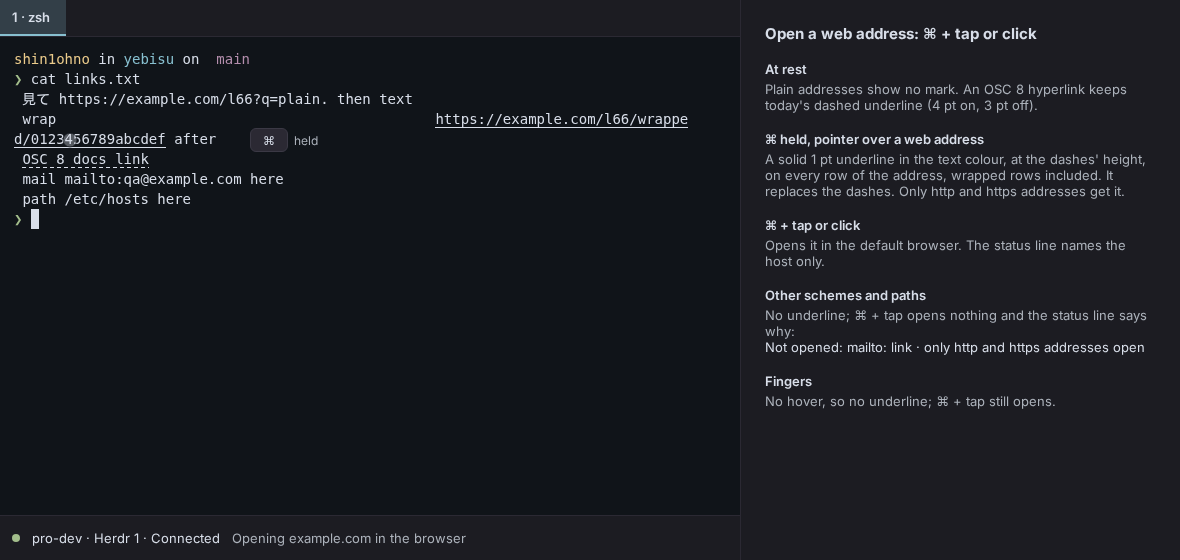
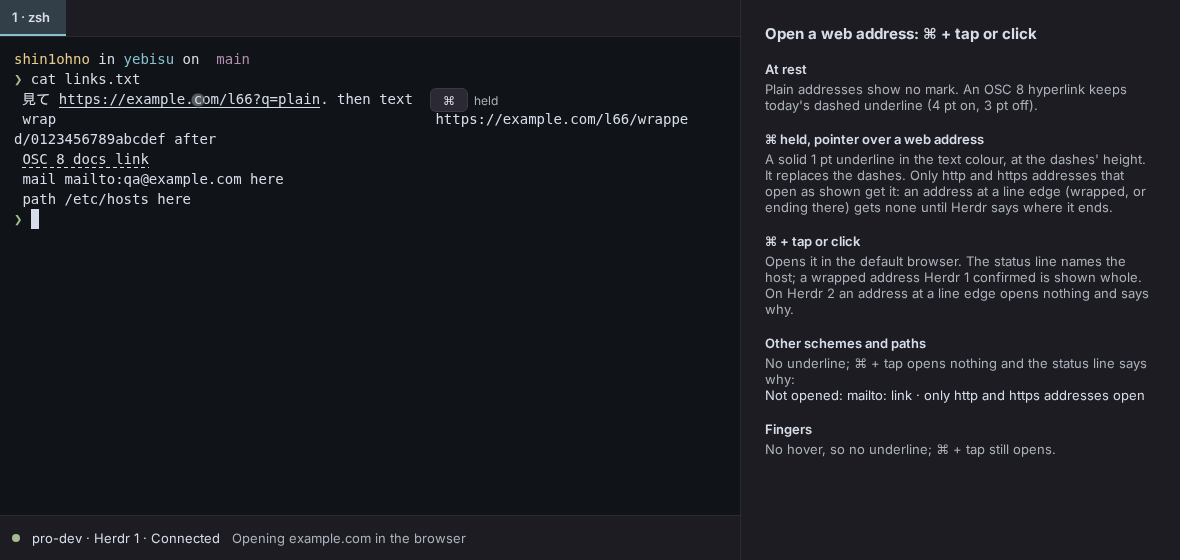
docs: refresh the open-URL screenshots and artboard for edge addresses
The Simulator screenshots come from the run after the line-edge and
held-Command fixes: the address ending at the edge opens as shown, the
Herdr 2 wrapped address is refused, and the Command underline is shown
on the plain address. The artboard moves the underline there, since an
address at a line edge has no known extent until Herdr resolves it.

diff --git a/docs/terminal-links.md b/docs/terminal-links.md
@@ -131,11 +131,11 @@ its own pane's target.
   cannot hover a pointer on iPad. None of them is in the CI job selection.
 - Screenshots (`docs/screenshots/w6-open-url/`, iPadOS 26.5 Simulator,
   landscape): `herdr1-fixture.png` and `herdr2-fixture.png` (the fixtures),
-  `plain-safari.png`, `wrapped-safari.png`, `osc8-safari.png`,
-  `core-osc8-safari.png`, `core-wrapped-safari.png` (Safari in front after
-  each Command + tap), `mailto-refused.png` and `path-refused.png` (yebisu
-  still in front after a refused press), `command-underline.png` (the
-  Command underline on the plain address) and
+  `plain-safari.png`, `edge-safari.png`, `wrapped-safari.png`,
+  `osc8-safari.png`, `core-osc8-safari.png` (Safari in front after each
+  Command + tap), `mailto-refused.png`, `path-refused.png` and
+  `core-wrapped-refused.png` (yebisu still in front after a refused press),
+  `command-underline.png` (the Command underline on the plain address) and
   `artboard-open-url.png` (the design record).
 - Back from Safari, a Herdr 2 session reconnects with a new boot and its
   first frames are 80 x 24 until the resize, so the test presses a link only
